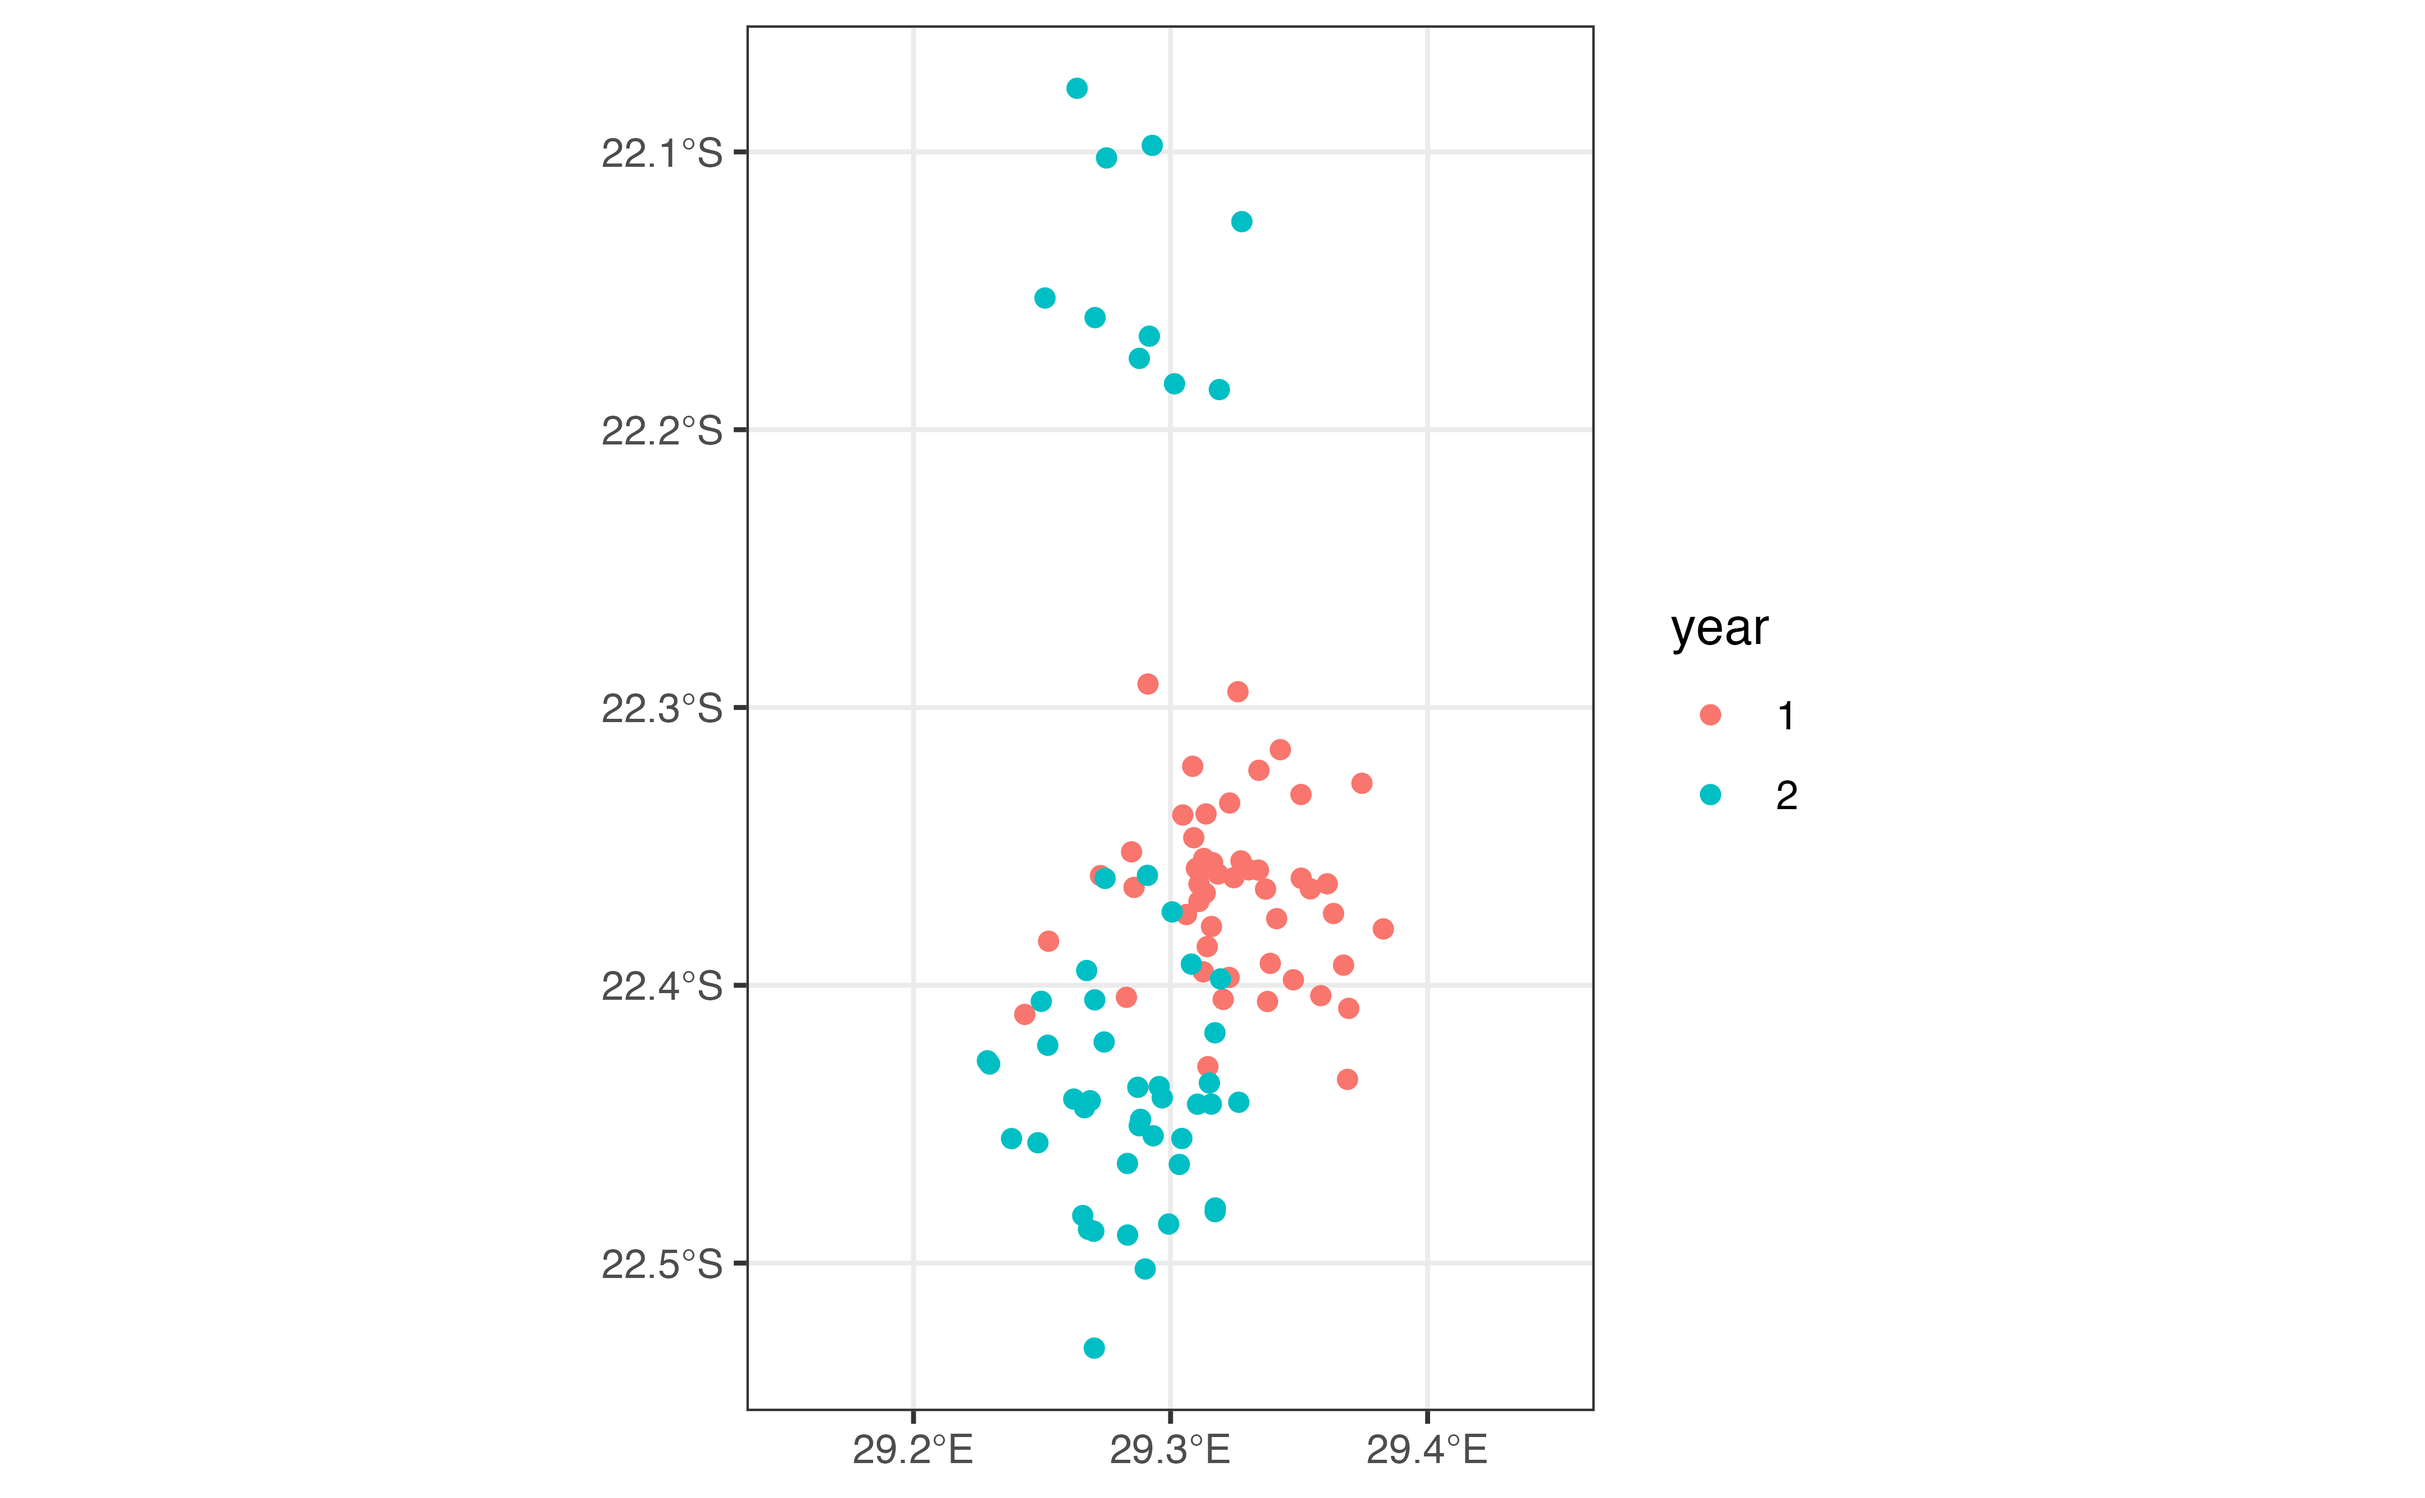
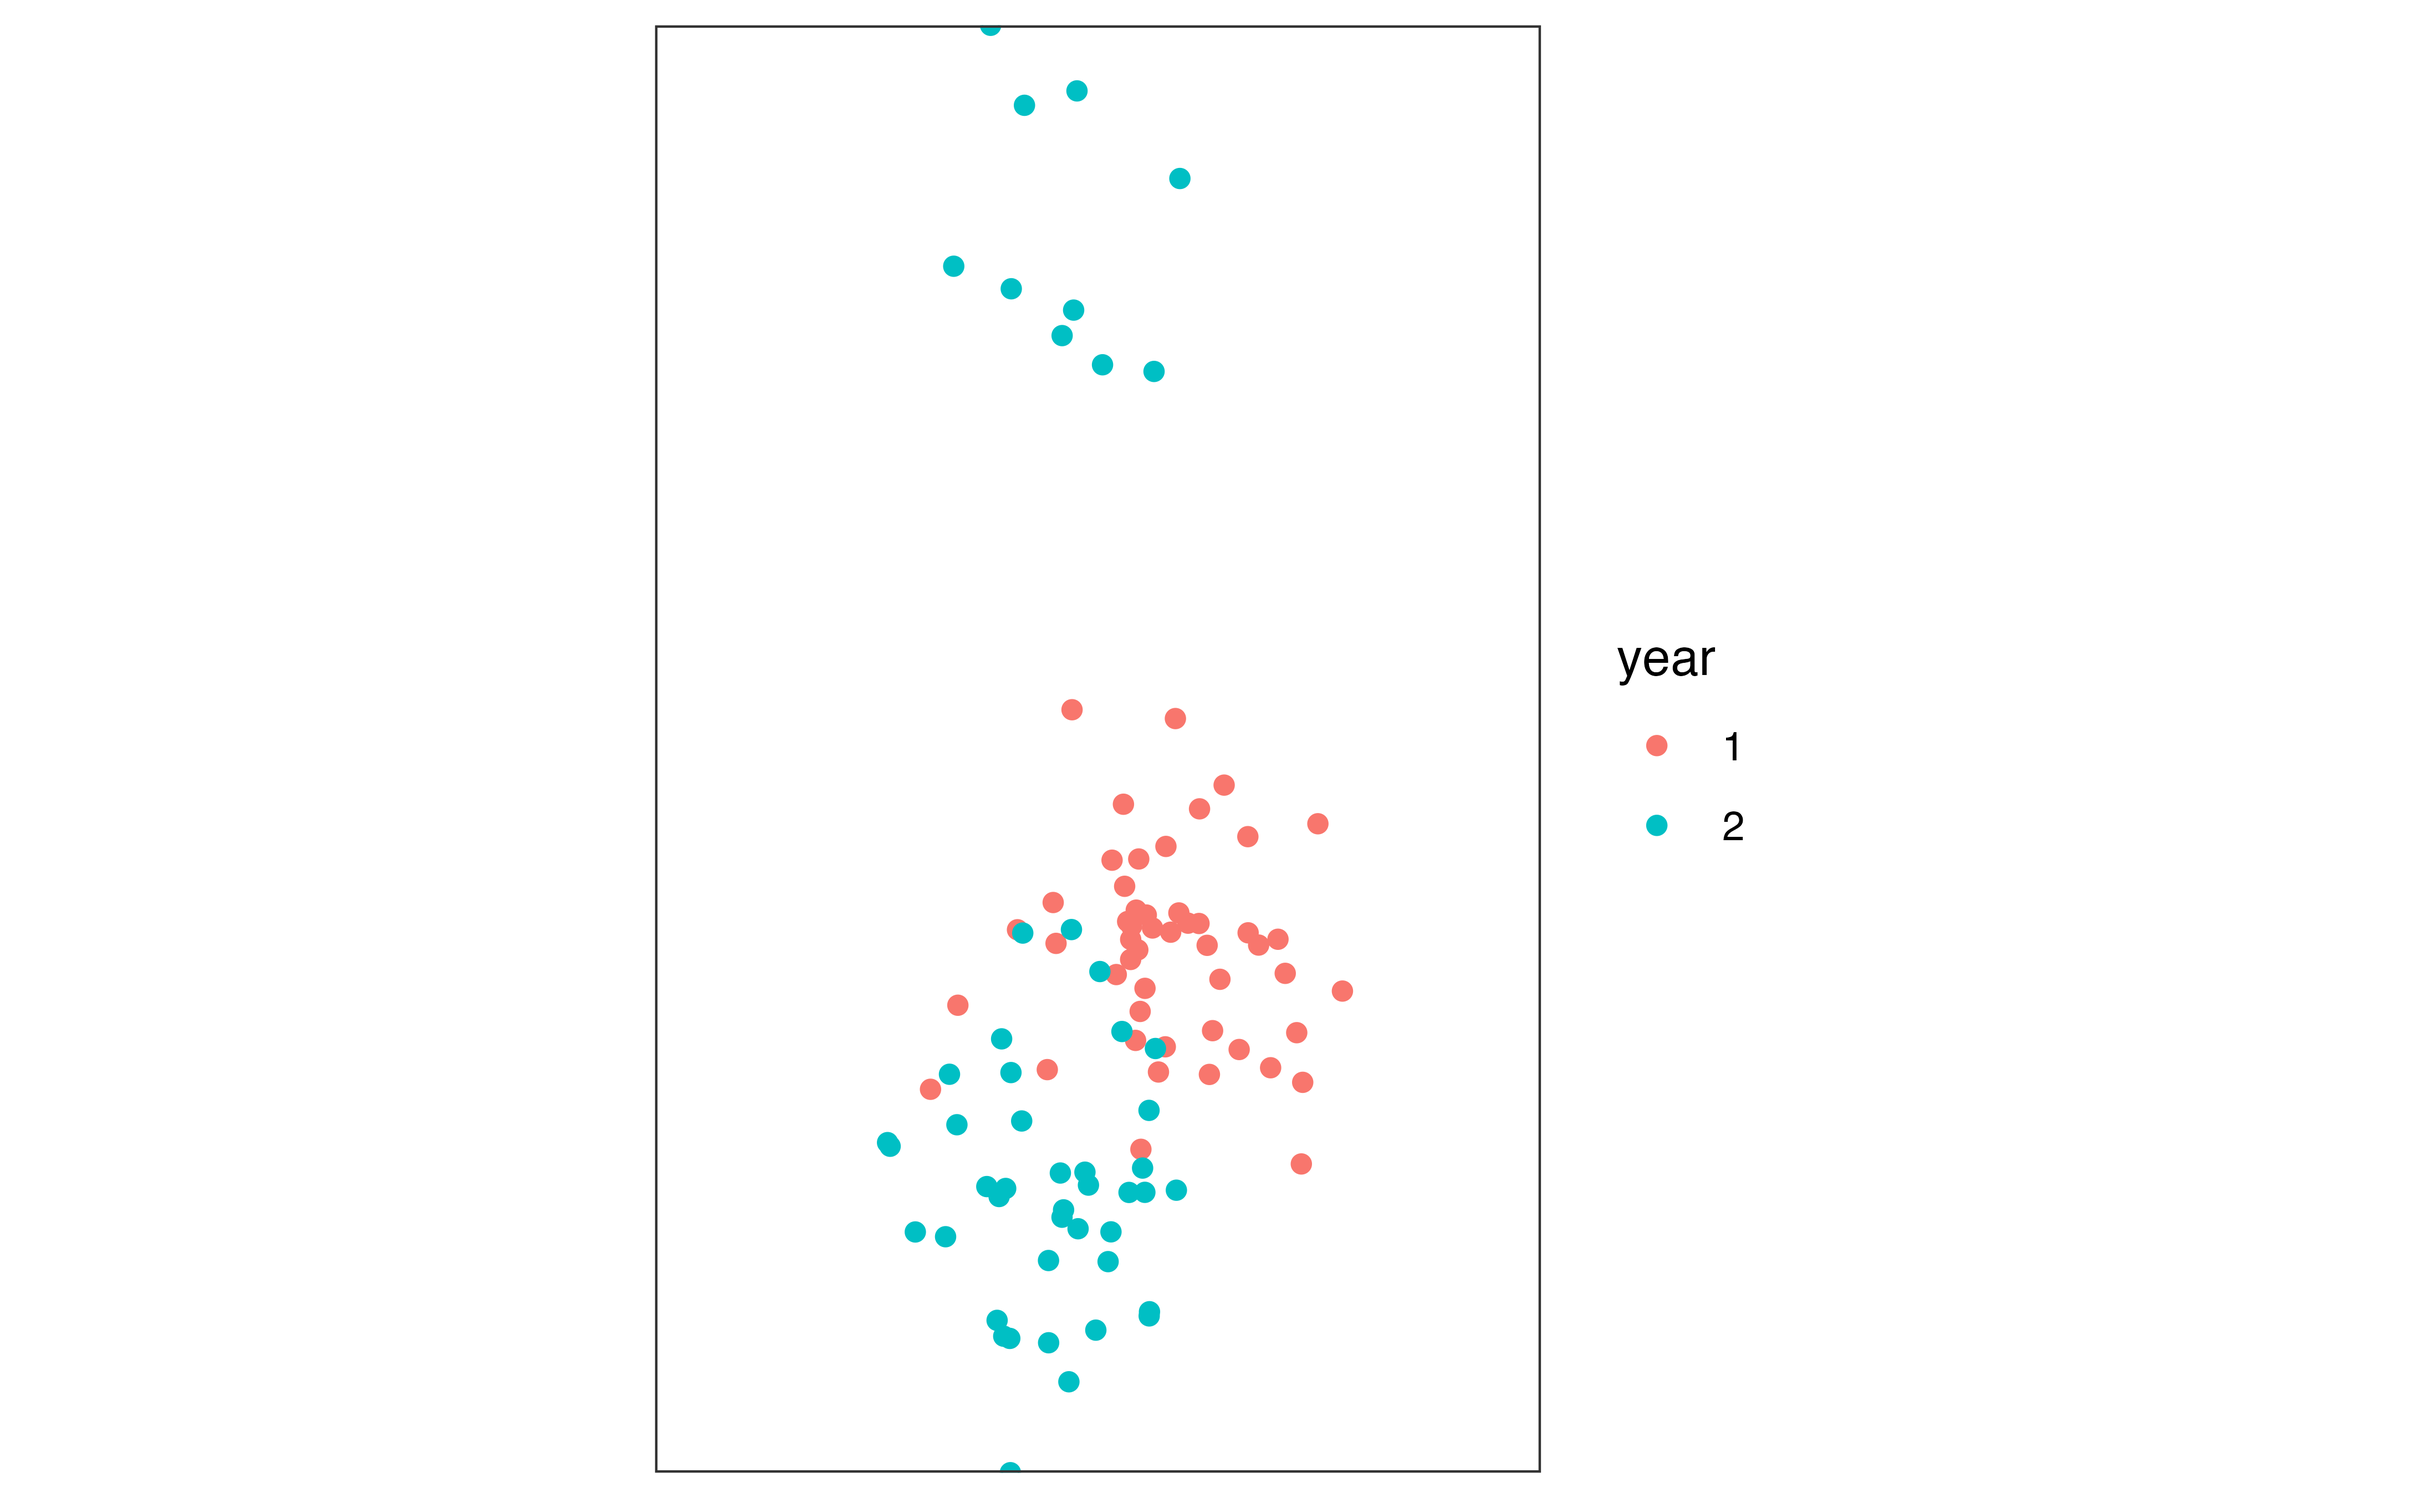
rebuilding site

diff --git a/docs/articles/Introduction.html b/docs/articles/Introduction.html
@@ -252,7 +252,7 @@ of population fragmentation. Let’s visualize the data to check:</p>
 <code class="sourceCode R"><span><span class="fu">ggplot</span><span class="op">(</span><span class="va">asym_split_sf</span><span class="op">)</span> <span class="op">+</span></span>
 <span>  <span class="fu">geom_sf</span><span class="op">(</span><span class="fu">aes</span><span class="op">(</span>color <span class="op">=</span> <span class="fu"><a href="https://rdrr.io/r/base/factor.html" class="external-link">as.factor</a></span><span class="op">(</span><span class="va">year</span><span class="op">)</span><span class="op">)</span><span class="op">)</span> <span class="op">+</span></span>
 <span>  <span class="fu">labs</span><span class="op">(</span>color <span class="op">=</span> <span class="st">"year"</span><span class="op">)</span><span class="op">+</span></span>
-<span>  <span class="fu">coord_sf</span><span class="op">(</span>xlim <span class="op">=</span> <span class="fu"><a href="https://rdrr.io/r/base/c.html" class="external-link">c</a></span><span class="op">(</span><span class="fl">29.15</span>, <span class="fl">29.45</span><span class="op">)</span><span class="op">)</span><span class="op">+</span></span>
+<span>  <span class="fu">coord_sf</span><span class="op">(</span>xlim <span class="op">=</span> <span class="fu"><a href="https://rdrr.io/r/base/c.html" class="external-link">c</a></span><span class="op">(</span><span class="fl">29.15</span>, <span class="fl">29.45</span><span class="op">)</span>,crs <span class="op">=</span> <span class="fu"><a href="https://r-spatial.github.io/sf/reference/st_crs.html" class="external-link">st_crs</a></span><span class="op">(</span><span class="fl">4326</span><span class="op">)</span>,datum <span class="op">=</span> <span class="cn">NA</span>, expand <span class="op">=</span> <span class="cn">FALSE</span><span class="op">)</span><span class="op">+</span></span>
 <span>  <span class="fu">scale_x_continuous</span><span class="op">(</span>breaks <span class="op">=</span> <span class="fu">scales</span><span class="fu">::</span><span class="fu"><a href="https://scales.r-lib.org/reference/pretty_breaks.html" class="external-link">pretty_breaks</a></span><span class="op">(</span>n <span class="op">=</span> <span class="fl">3</span><span class="op">)</span><span class="op">)</span> <span class="op">+</span></span>
 <span>  <span class="fu">theme_bw</span><span class="op">(</span><span class="op">)</span></span></code></pre></div>
 <p><img src="Introduction_files/figure-html/visualize%20sf%20data-1.png" width="2187.5" style="display: block; margin: auto;"></p>
@@ -268,7 +268,7 @@ whereas the majority of the population moved slightly south.</p>
 
 
     <footer><div class="pkgdown-footer-left">
-  <p>Developed by Nicola Love, Sally Otto.</p>
+  <p>Developed by Nicola Love, Sarah Otto.</p>
 </div>
 
 <div class="pkgdown-footer-right">

diff --git a/docs/authors.html b/docs/authors.html
@@ -37,11 +37,11 @@
 
       <ul class="list-unstyled"><li>
           <p><strong>Nicola Love</strong>. Author, maintainer.
-          </p>
+          <br><small>GitHub = nicolalove</small></p>
         </li>
         <li>
-          <p><strong>Sally Otto</strong>. Author.
-          </p>
+          <p><strong>Sarah Otto</strong>. Author.
+          <br><small>GitHub = spotto</small></p>
         </li>
       </ul></div>
 
@@ -55,7 +55,7 @@ R package version 0.0.0.9000, <a href="https://nicolalove.github.io/shapeshiftr/
 </p>
       <pre>@Manual{,
   title = {shapeshiftr: Detecting Population Range Reconfiguration via Inter-individual Distances},
-  author = {Nicola Love and Sally Otto},
+  author = {Nicola Love and Sarah Otto},
   year = {2025},
   note = {R package version 0.0.0.9000},
   url = {https://nicolalove.github.io/shapeshiftr/},
@@ -67,7 +67,7 @@ R package version 0.0.0.9000, <a href="https://nicolalove.github.io/shapeshiftr/
 
 
     <footer><div class="pkgdown-footer-left">
-  <p>Developed by Nicola Love, Sally Otto.</p>
+  <p>Developed by Nicola Love, Sarah Otto.</p>
 </div>
 
 <div class="pkgdown-footer-right">

diff --git a/docs/index.html b/docs/index.html
@@ -137,7 +137,8 @@ head(cvdf)</code></pre>
 <h2 data-toc-skip>Developers</h2>
 <ul class="list-unstyled">
 <li>Nicola Love <br><small class="roles"> Author, maintainer </small>  </li>
-<li>Sally Otto <br><small class="roles"> Author </small>  </li>
+<li>Sarah Otto <br><small class="roles"> Author </small>  </li>
+<li><a href="authors.html">More about authors...</a></li>
 </ul>
 </div>
 
@@ -148,7 +149,7 @@ head(cvdf)</code></pre>
 
 
     <footer><div class="pkgdown-footer-left">
-  <p>Developed by Nicola Love, Sally Otto.</p>
+  <p>Developed by Nicola Love, Sarah Otto.</p>
 </div>
 
 <div class="pkgdown-footer-right">

diff --git a/docs/reference/asym_split_sf.html b/docs/reference/asym_split_sf.html
@@ -67,7 +67,7 @@ item(geometry)An <code>sf</code> geometry column storing spatial point coordinat
 
 
     <footer><div class="pkgdown-footer-left">
-  <p>Developed by Nicola Love, Sally Otto.</p>
+  <p>Developed by Nicola Love, Sarah Otto.</p>
 </div>
 
 <div class="pkgdown-footer-right">

diff --git a/docs/reference/cvind.html b/docs/reference/cvind.html
@@ -69,7 +69,7 @@ Syntax examples for different input types:</p><ul><li><p>If <code>points</code> 
 
 
     <footer><div class="pkgdown-footer-left">
-  <p>Developed by Nicola Love, Sally Otto.</p>
+  <p>Developed by Nicola Love, Sarah Otto.</p>
 </div>
 
 <div class="pkgdown-footer-right">

diff --git a/docs/reference/cvpop.html b/docs/reference/cvpop.html
@@ -69,7 +69,7 @@ Syntax examples for different input types:</p><ul><li><p>If <code>points</code> 
 
 
     <footer><div class="pkgdown-footer-left">
-  <p>Developed by Nicola Love, Sally Otto.</p>
+  <p>Developed by Nicola Love, Sarah Otto.</p>
 </div>
 
 <div class="pkgdown-footer-right">

diff --git a/docs/reference/cvratio.html b/docs/reference/cvratio.html
@@ -65,7 +65,7 @@ Syntax examples for different input types:</p><ul><li><p>If <code>points</code> 
 
 
     <footer><div class="pkgdown-footer-left">
-  <p>Developed by Nicola Love, Sally Otto.</p>
+  <p>Developed by Nicola Love, Sarah Otto.</p>
 </div>
 
 <div class="pkgdown-footer-right">

diff --git a/docs/reference/shapeshiftr.html b/docs/reference/shapeshiftr.html
@@ -66,7 +66,7 @@ Love &amp; Otto (2025). <em>Spatial Signatures of Population Cohesion</em>. Meth
 
 
     <footer><div class="pkgdown-footer-left">
-  <p>Developed by Nicola Love, Sally Otto.</p>
+  <p>Developed by Nicola Love, Sarah Otto.</p>
 </div>
 
 <div class="pkgdown-footer-right">

diff --git a/docs/404.html b/docs/404.html
@@ -67,7 +67,7 @@ Content not found. Please use links in the navbar.
 
 
     <footer><div class="pkgdown-footer-left">
-  <p>Developed by Nicola Love, Sally Otto.</p>
+  <p>Developed by Nicola Love, Sarah Otto.</p>
 </div>
 
 <div class="pkgdown-footer-right">

diff --git a/docs/reference/split_population.html b/docs/reference/split_population.html
@@ -68,7 +68,7 @@ itemidThe name of the animal sampled</p>
 
 
     <footer><div class="pkgdown-footer-left">
-  <p>Developed by Nicola Love, Sally Otto.</p>
+  <p>Developed by Nicola Love, Sarah Otto.</p>
 </div>
 
 <div class="pkgdown-footer-right">

diff --git a/docs/LICENSE-text.html b/docs/LICENSE-text.html
@@ -41,7 +41,7 @@ COPYRIGHT HOLDER: shapeshiftr authors
 
 
     <footer><div class="pkgdown-footer-left">
-  <p>Developed by Nicola Love, Sally Otto.</p>
+  <p>Developed by Nicola Love, Sarah Otto.</p>
 </div>
 
 <div class="pkgdown-footer-right">

diff --git a/docs/reference/cvmetrics_sf.html b/docs/reference/cvmetrics_sf.html
@@ -83,7 +83,7 @@ to the CV values.</p></dd>
 
 
     <footer><div class="pkgdown-footer-left">
-  <p>Developed by Nicola Love, Sally Otto.</p>
+  <p>Developed by Nicola Love, Sarah Otto.</p>
 </div>
 
 <div class="pkgdown-footer-right">
